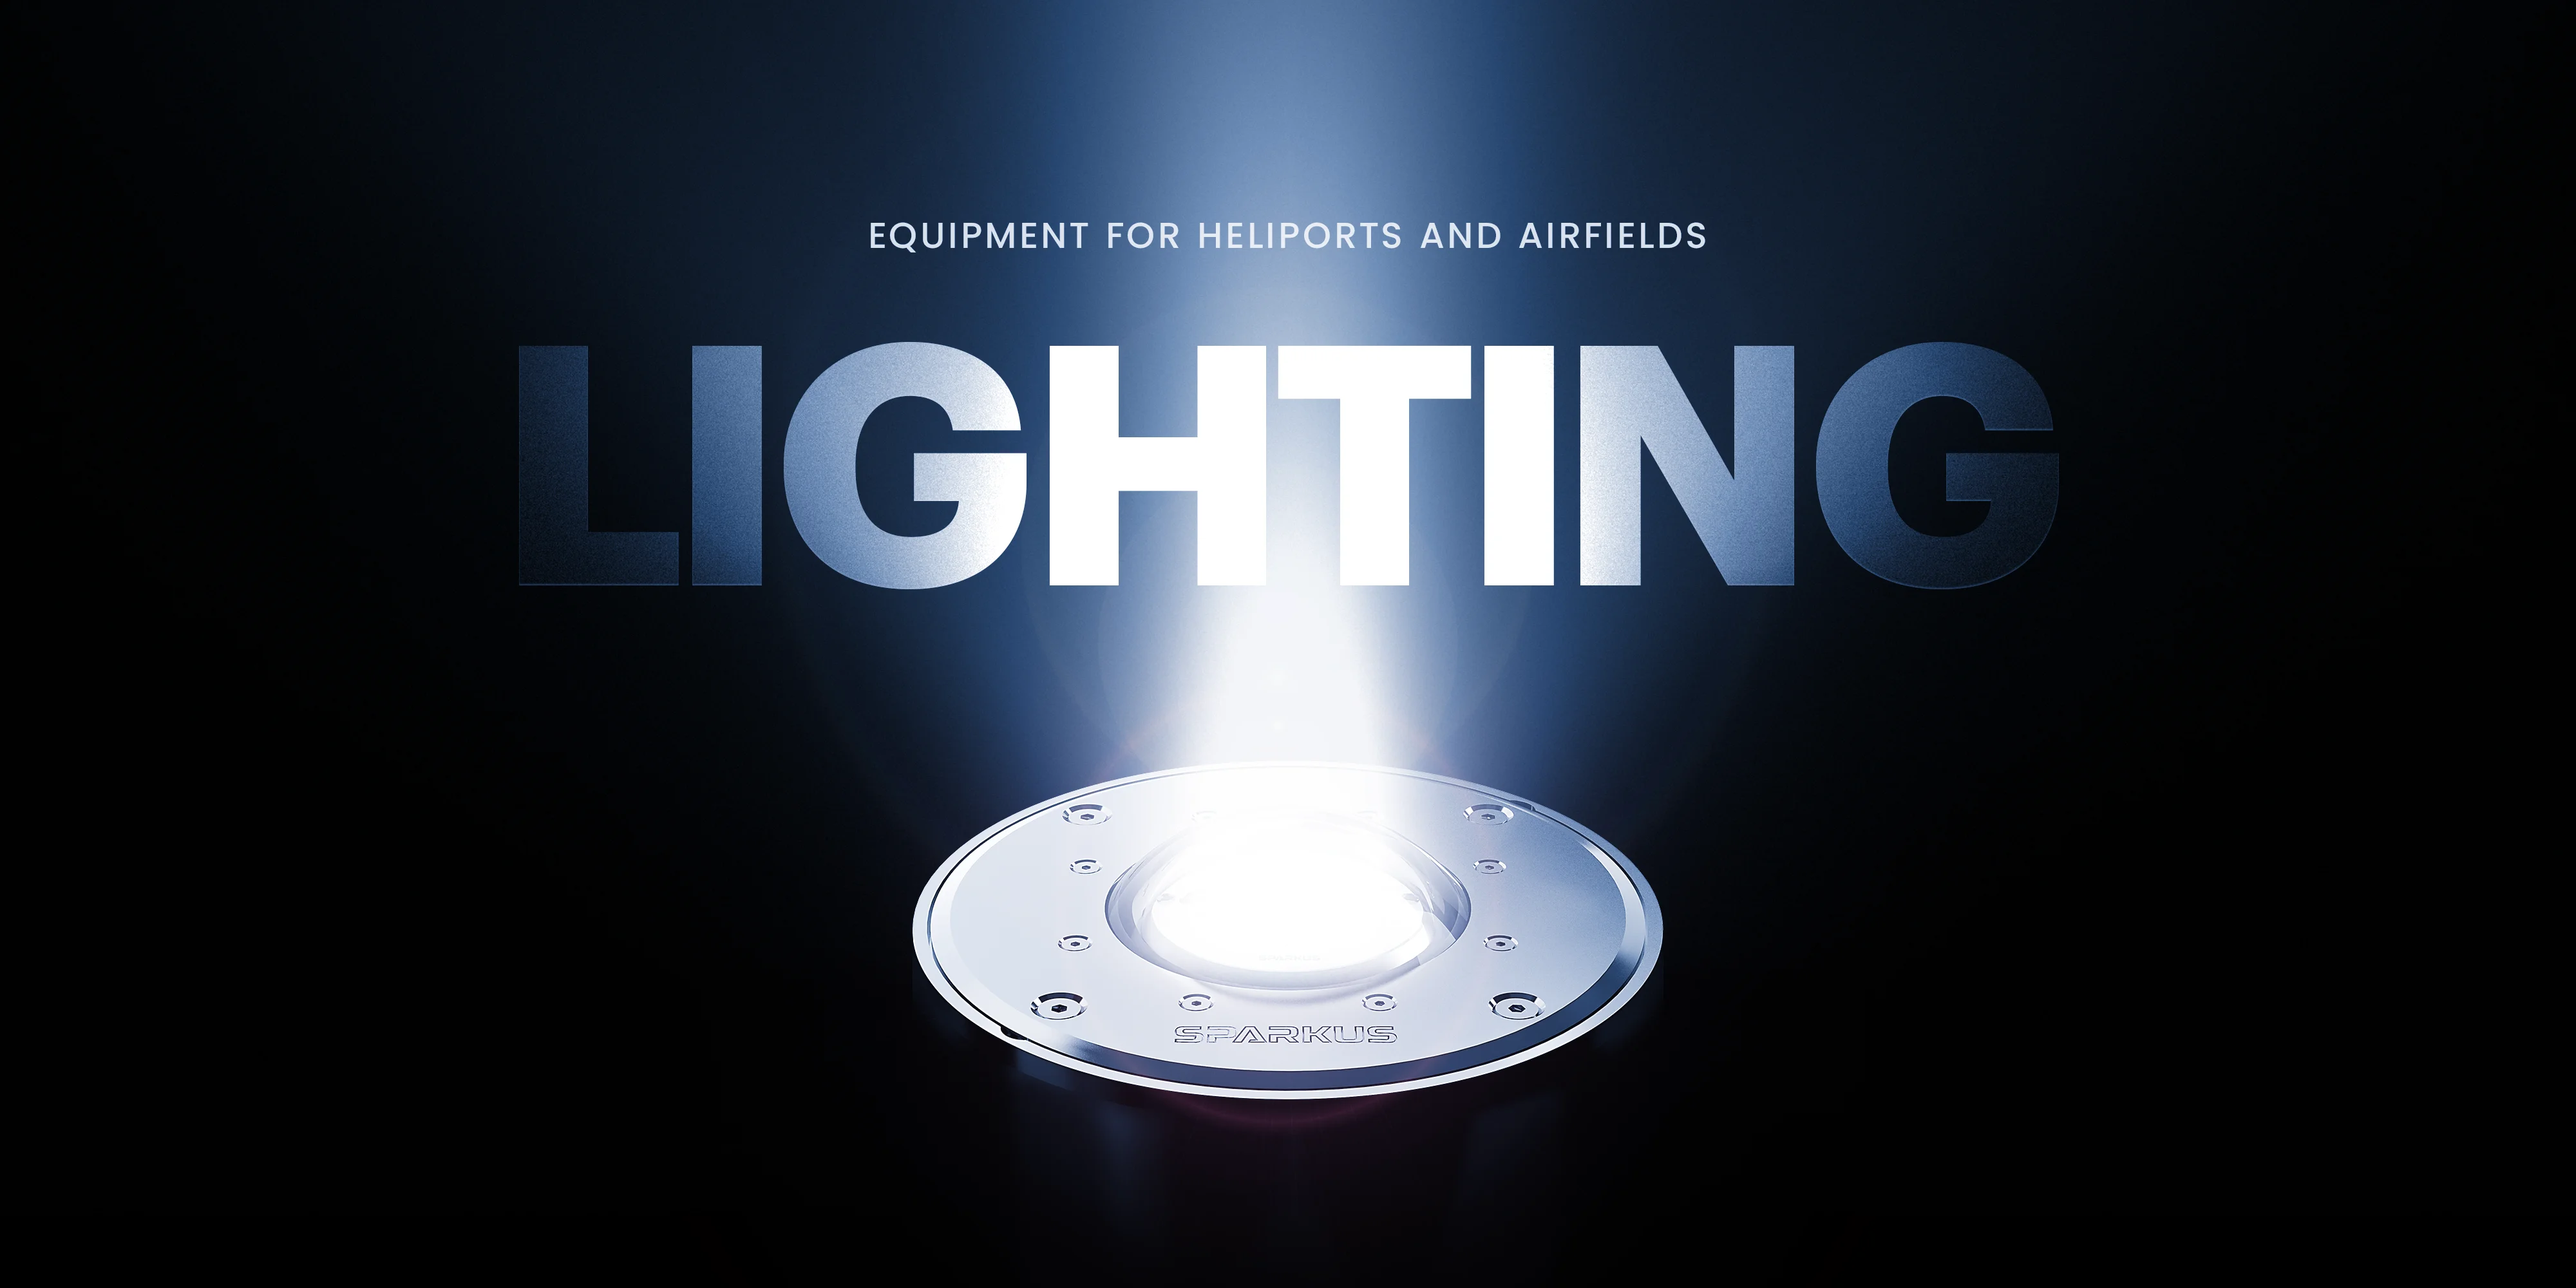
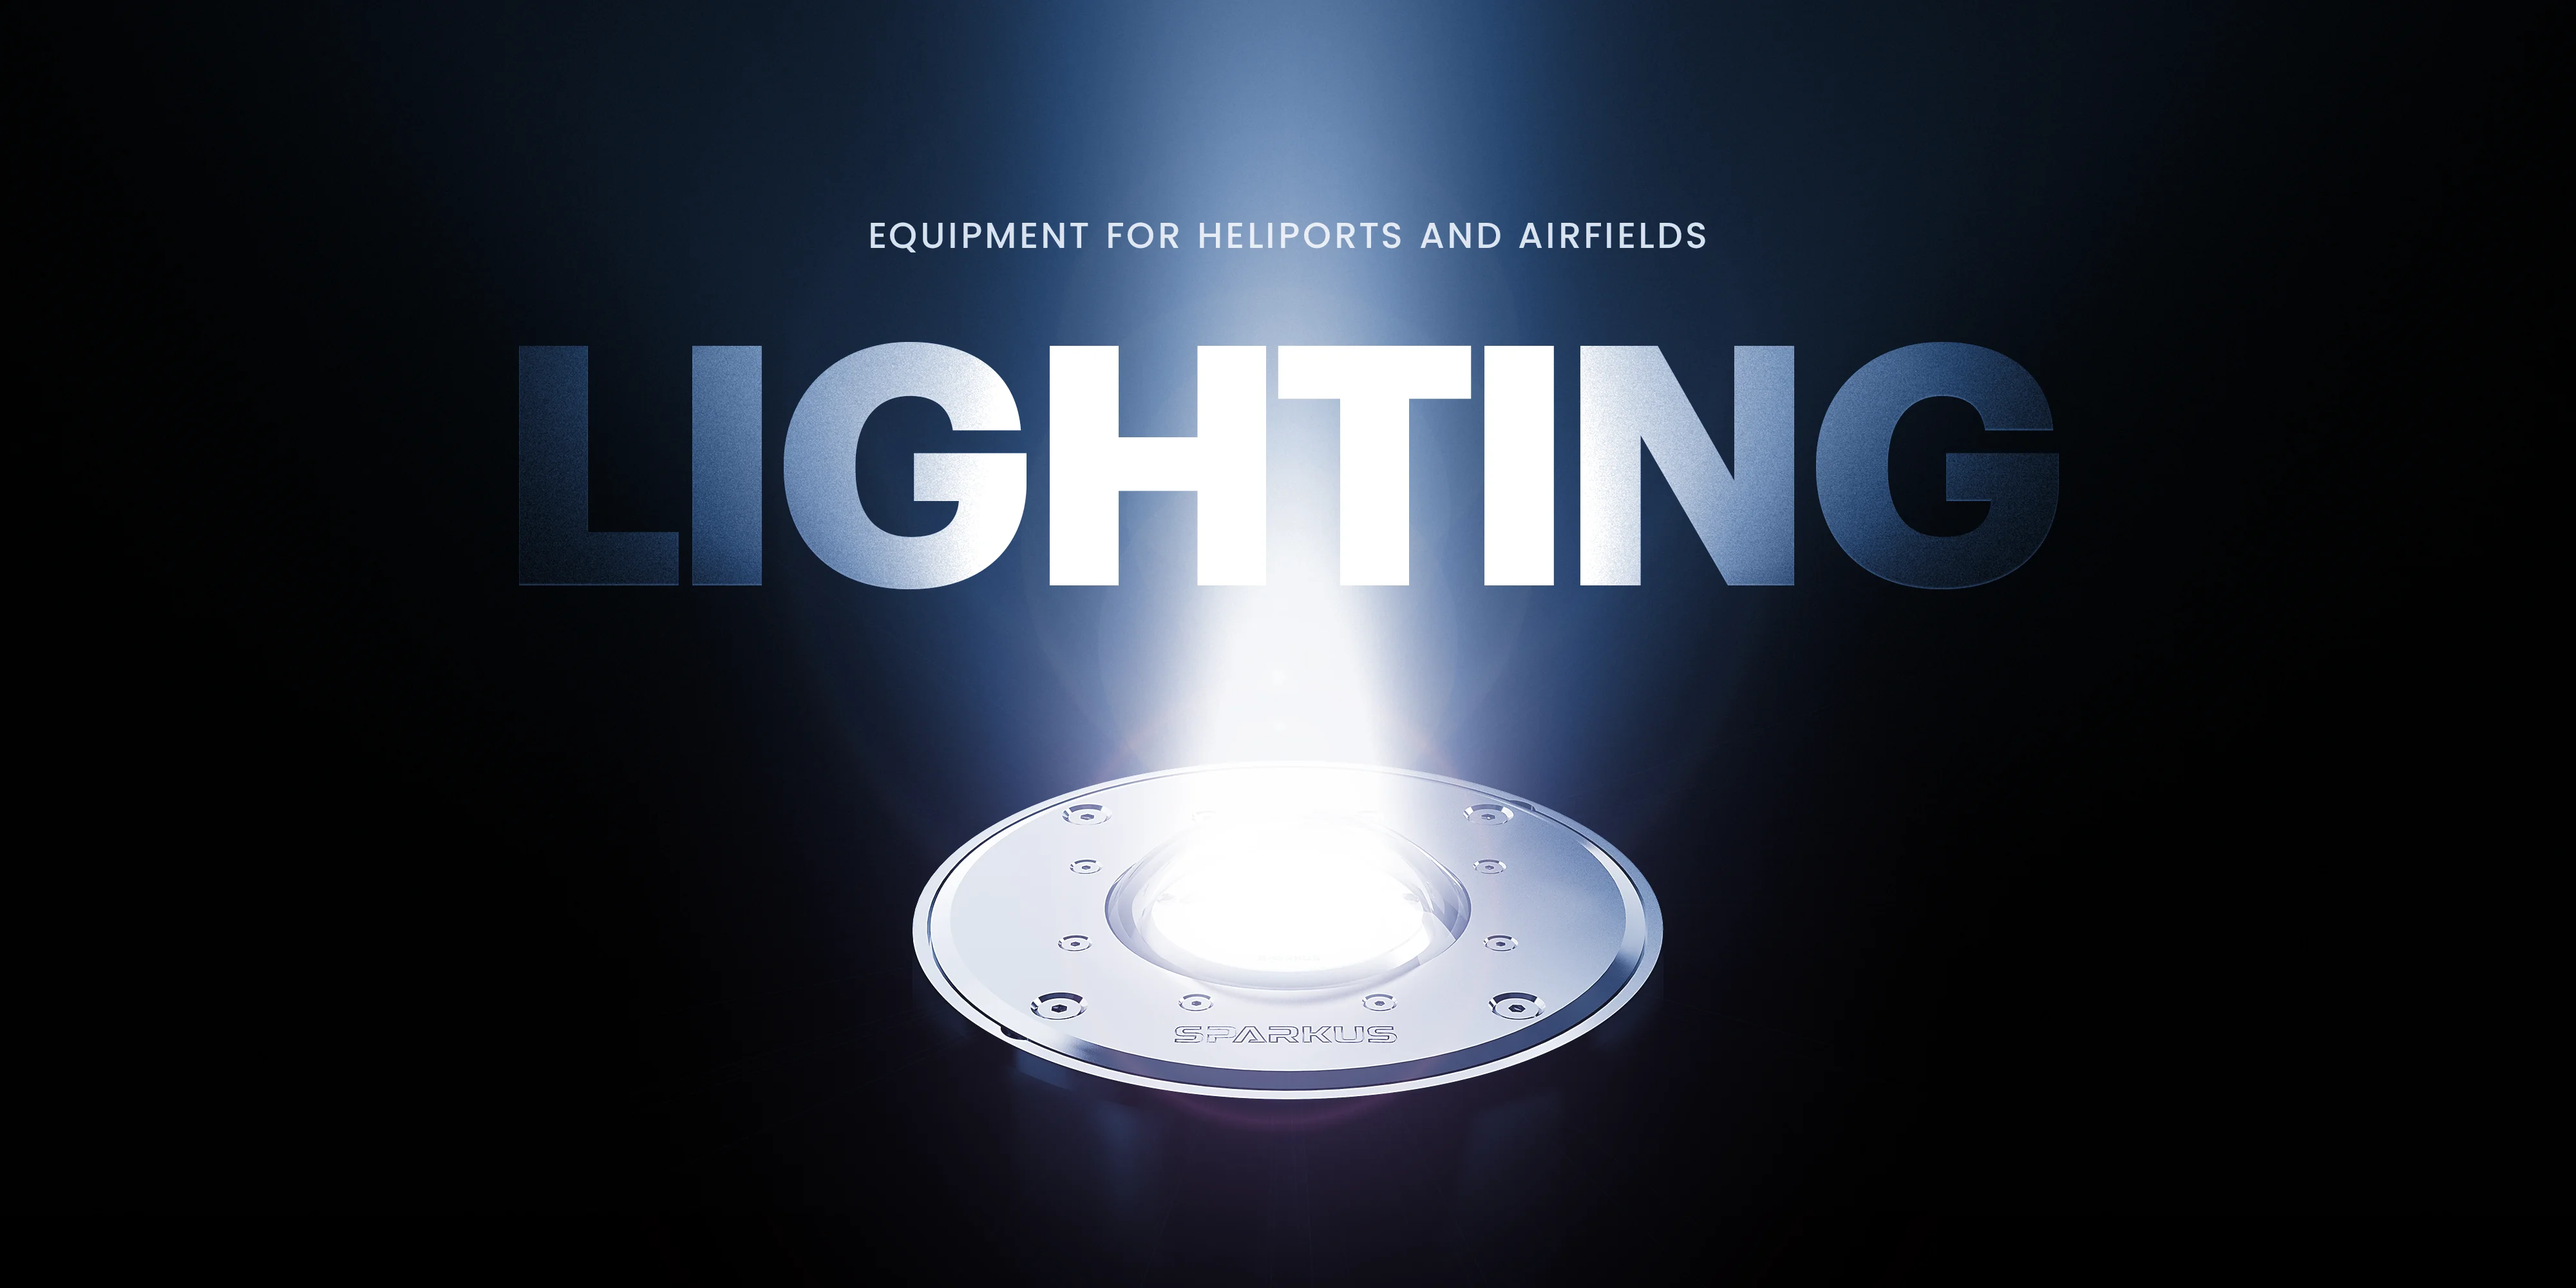
Nunito font added

diff --git a/source/styles/portfolio.css b/source/styles/portfolio.css
@@ -15,11 +15,13 @@
 }
 
 .project h1 a {
-	font-weight: 400;
-	font-size: 36px;
+	/* font-weight: 400;
+	font-variation-settings: 'wght' 460; */
+	font-family: 'Nunito', system-ui, -apple-system, BlinkMacSystemFont, 'Segoe UI', Roboto, Oxygen, Ubuntu, Cantarell, 'Open Sans', 'Helvetica Neue', sans-serif;
+	font-weight: 600;
+	font-size: 40px;
 	line-height: 120%;
 	letter-spacing: 0.02em;
-	font-variation-settings: 'wght' 460;
 }
 
 .project h1 a:hover {

diff --git a/source/styles/styles.css b/source/styles/styles.css
@@ -1,5 +1,6 @@
 /* Fonts */
 @import url('https://fonts.googleapis.com/css2?family=Inter:wght@200;300;400;500;600;700;800&display=swap');
+@import url('https://fonts.googleapis.com/css2?family=Nunito:wght@500;600&display=swap');
 
 /* Variables */
 :root {
